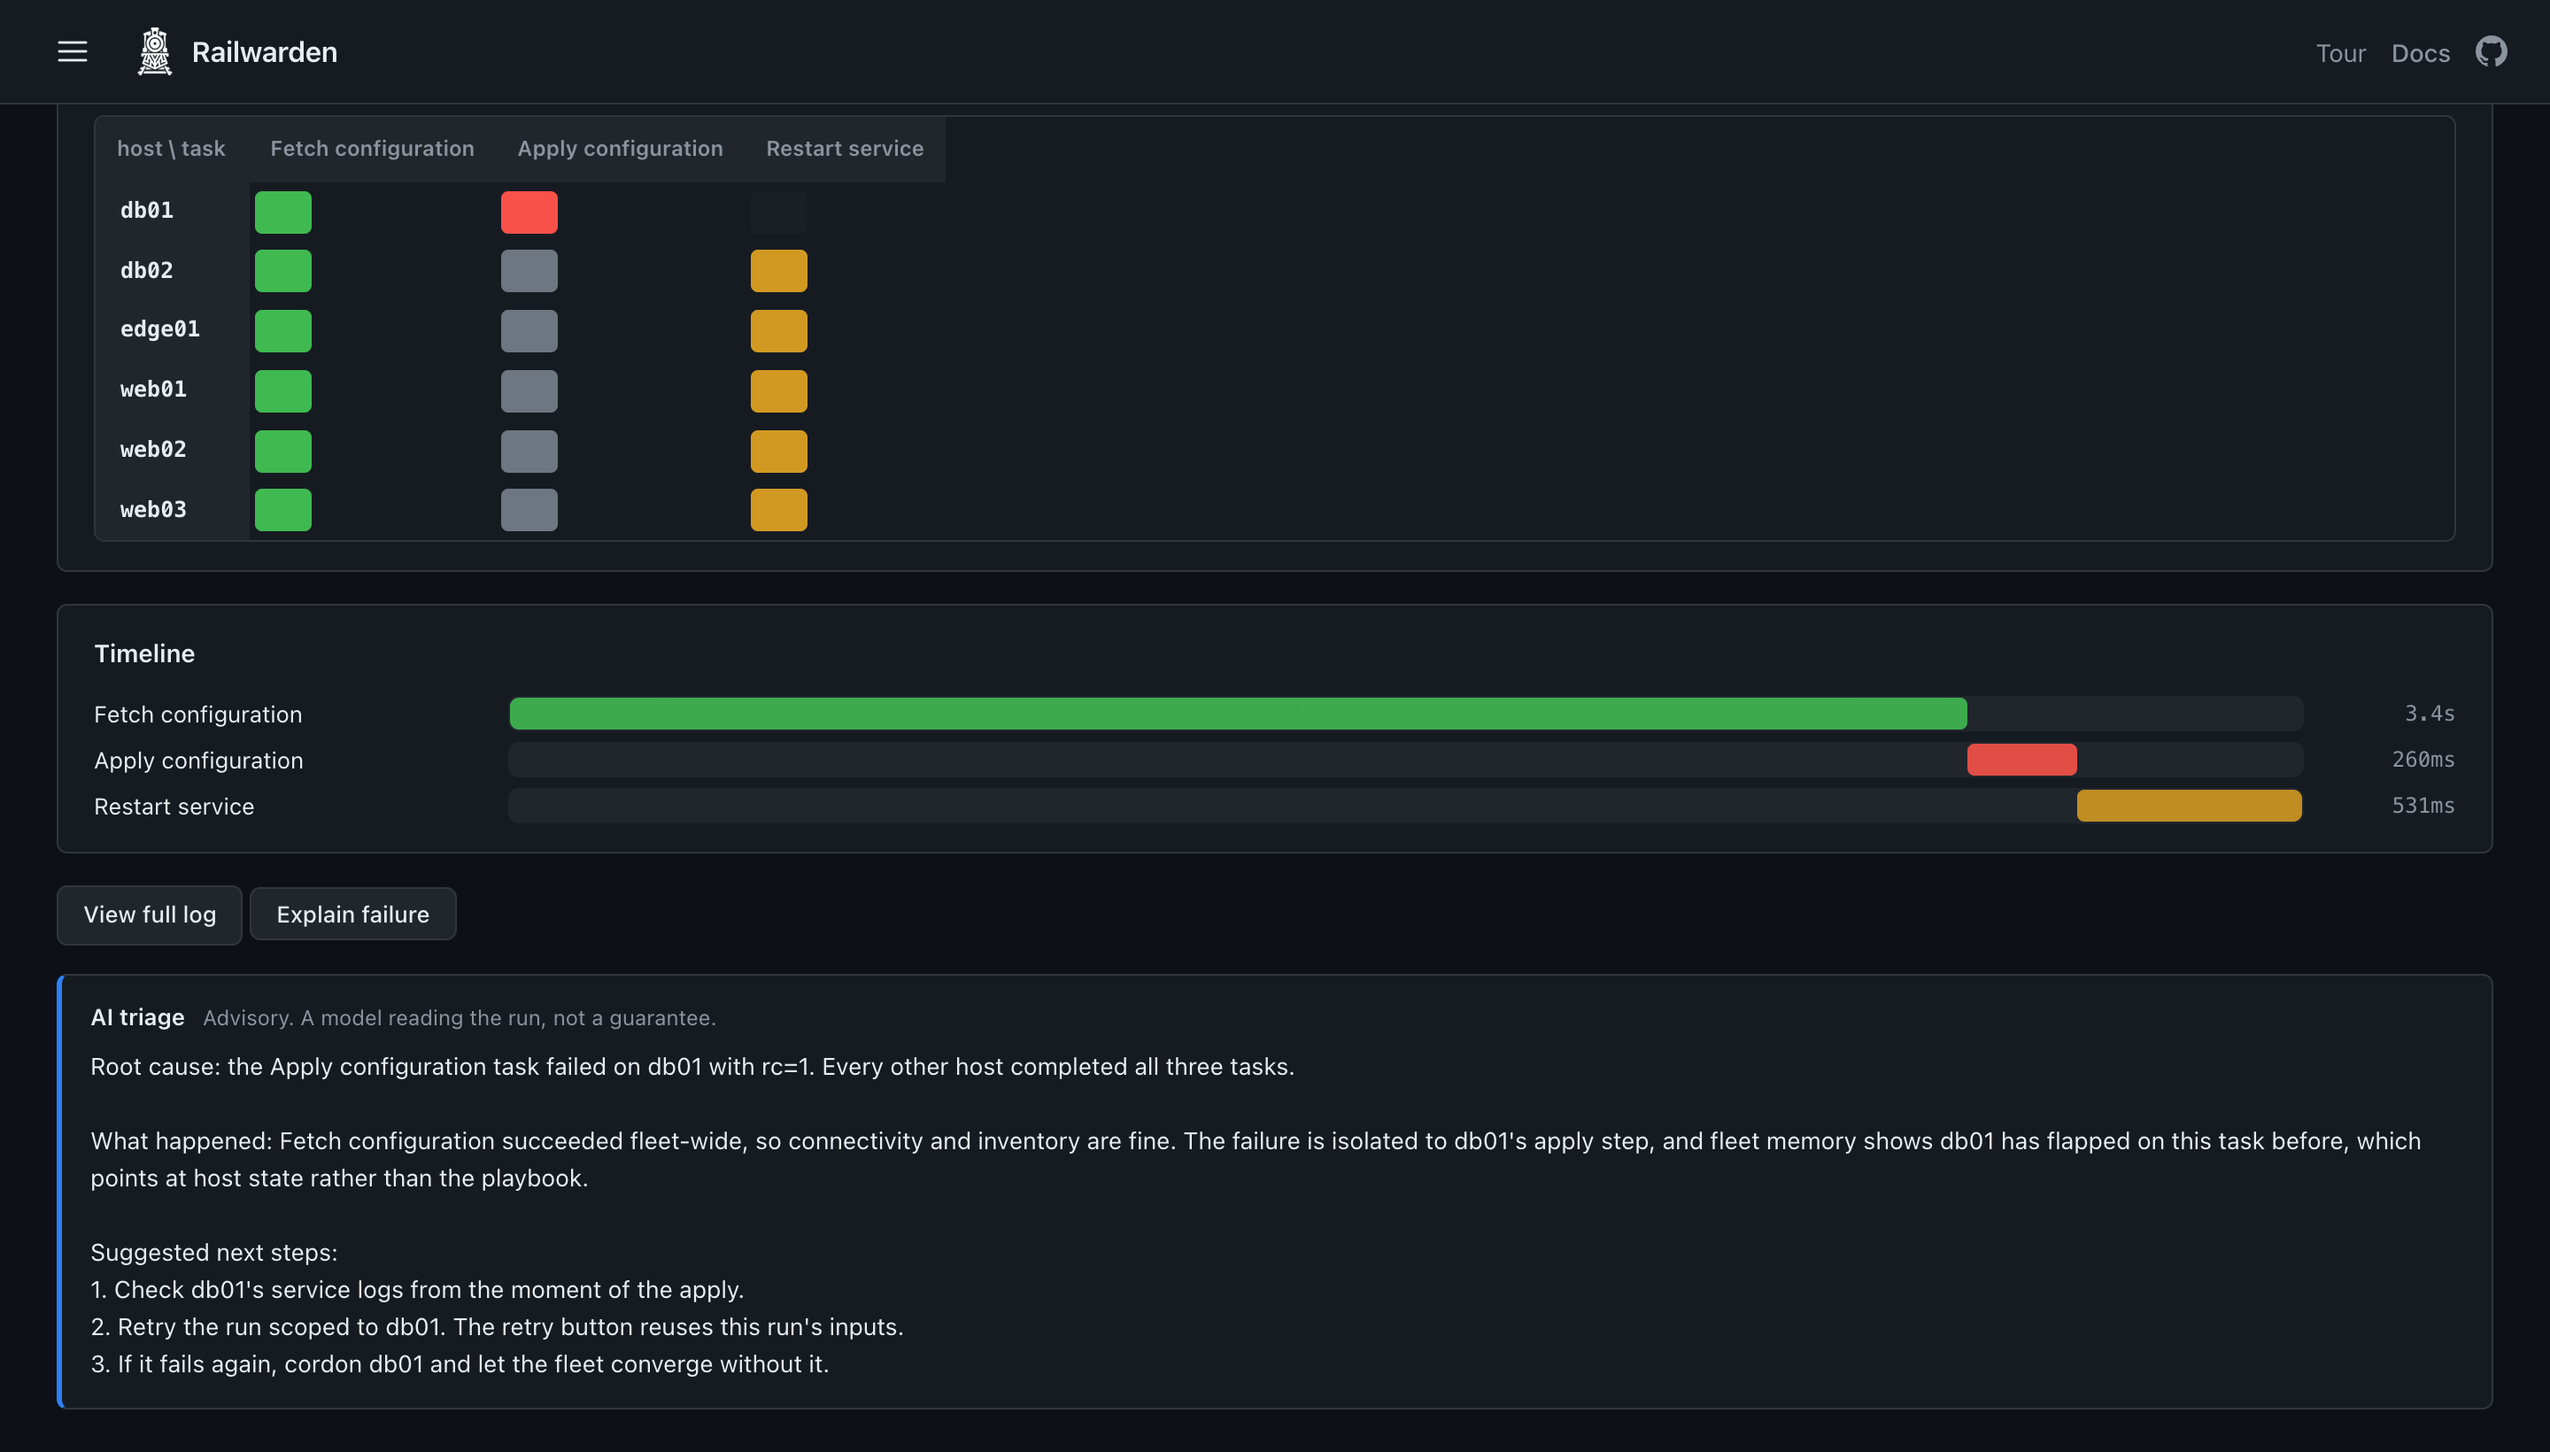
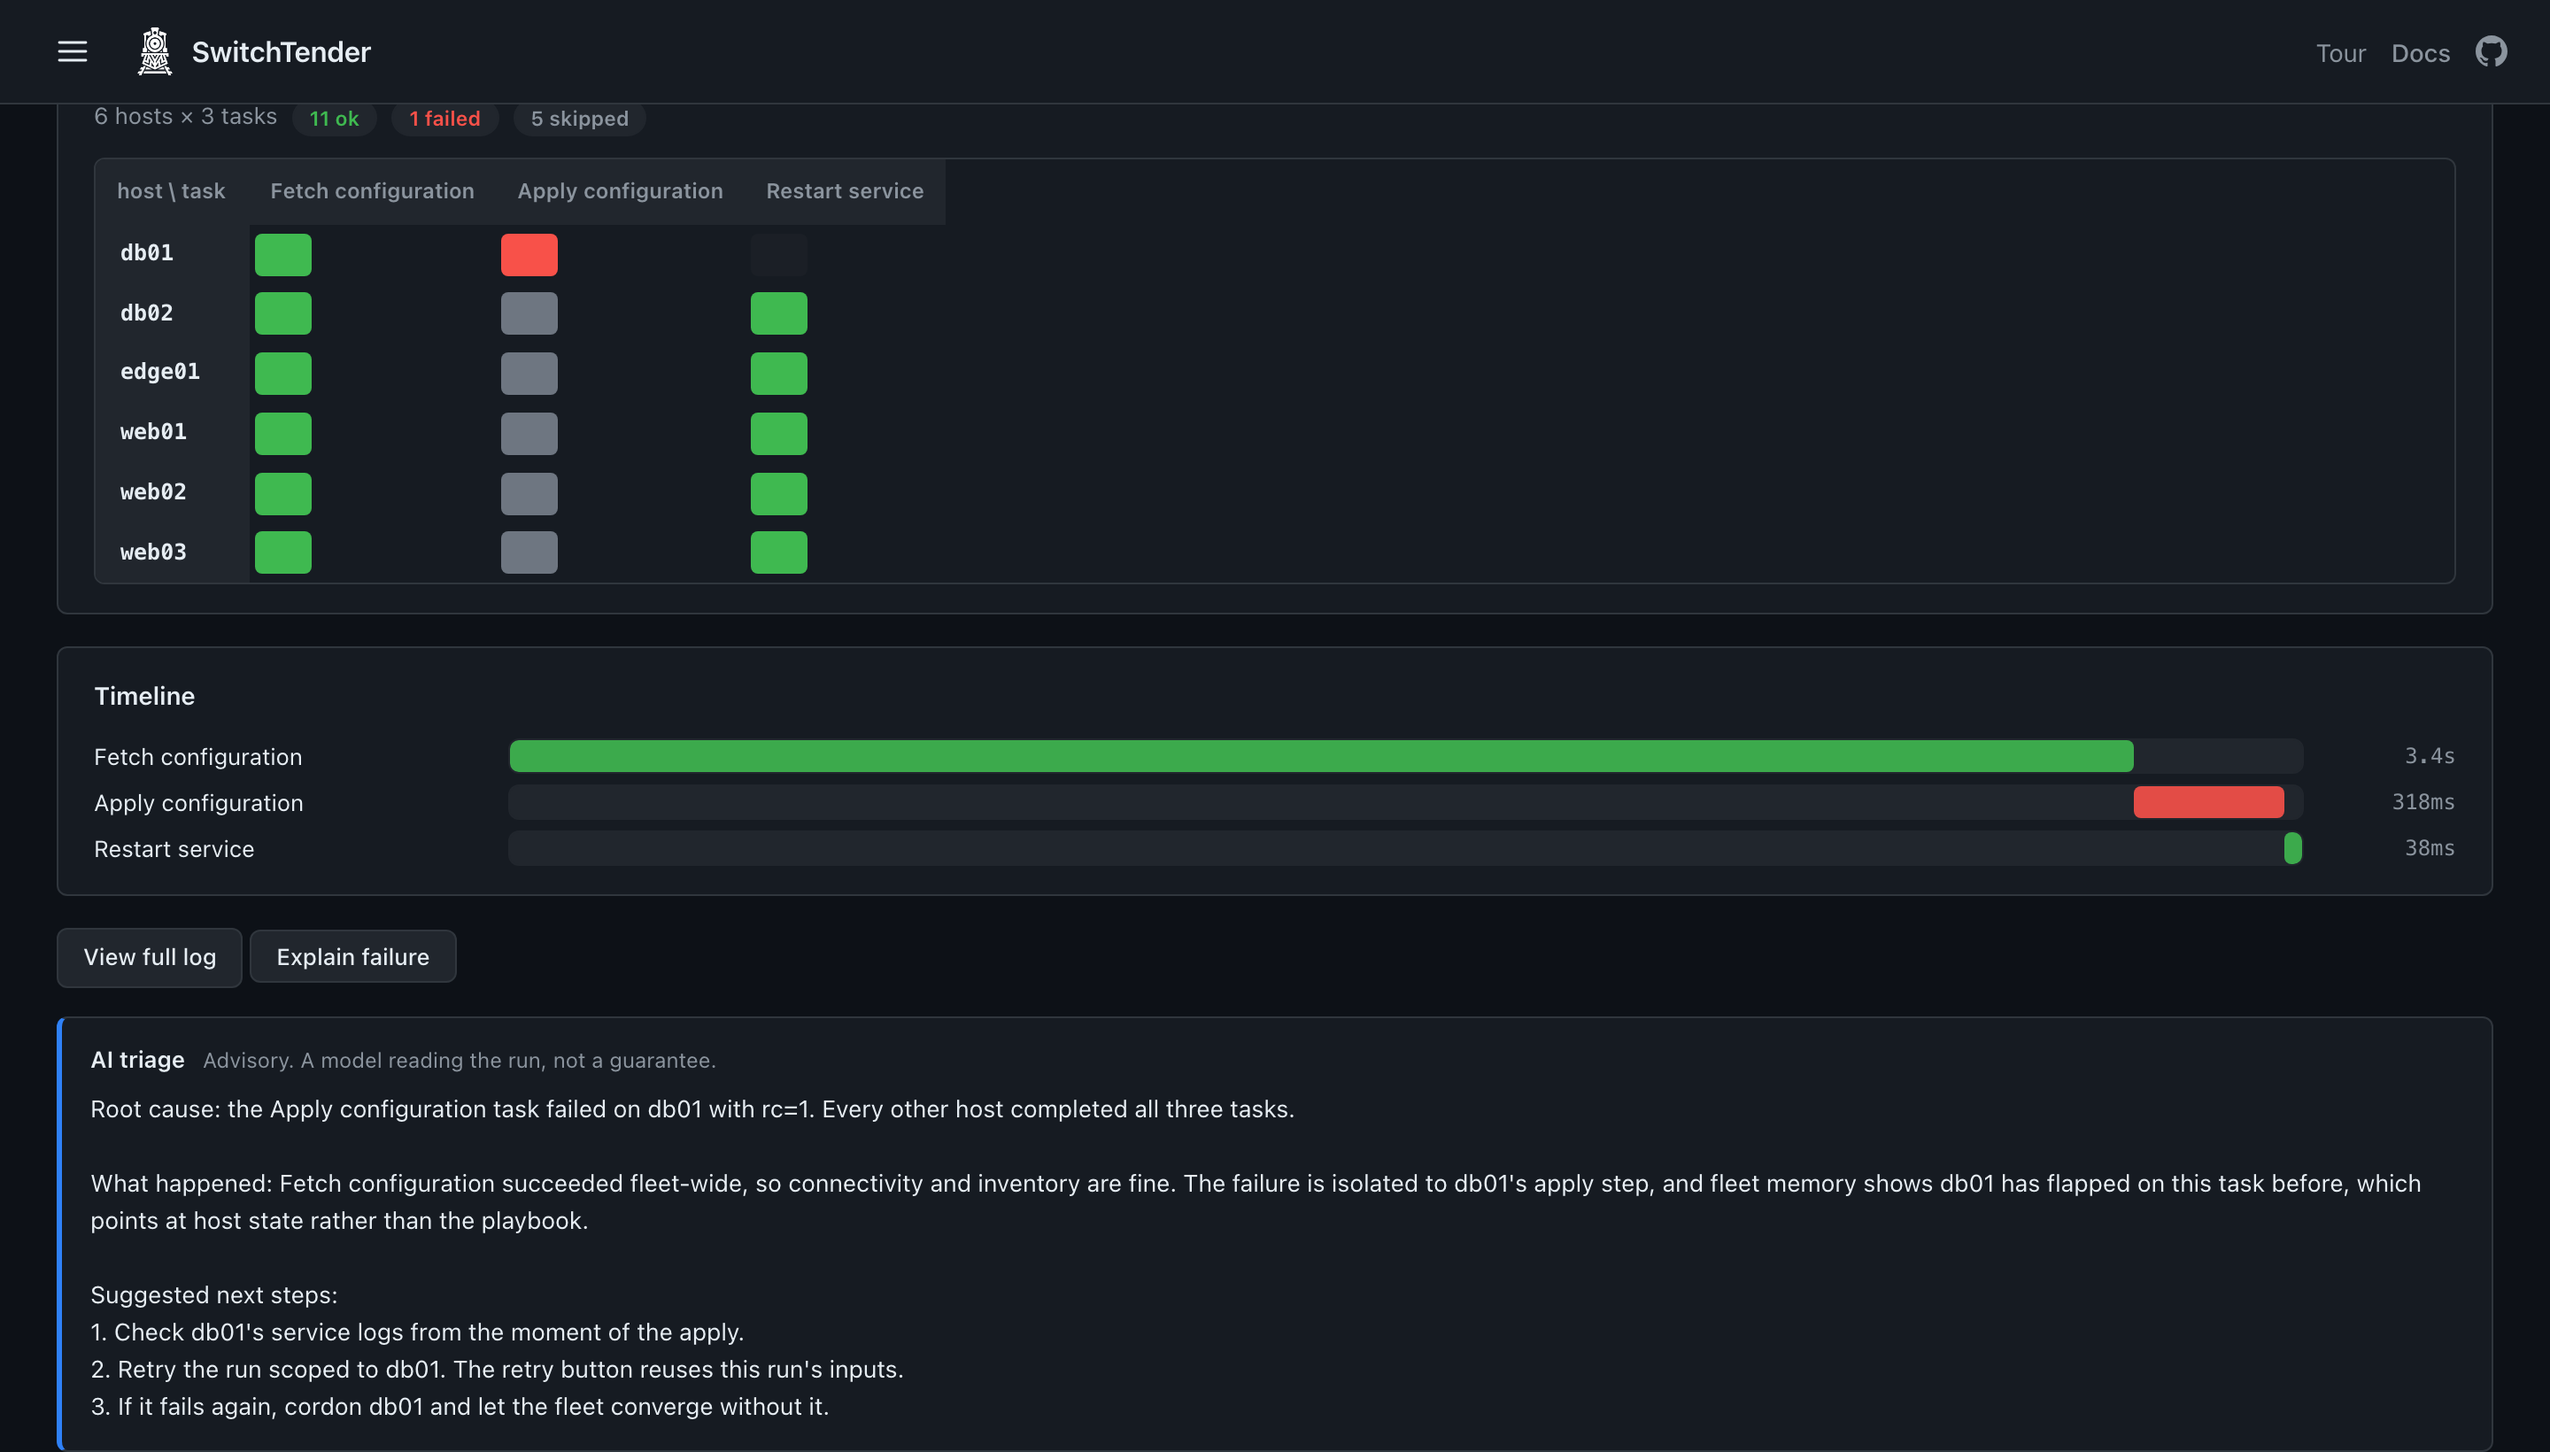
Recapture ask and triage screenshots

diff --git a/site/index.html b/site/index.html
@@ -218,11 +218,11 @@
 			<div class="duo">
 				<figure class="window reveal">
 					<div class="window-bar"><span></span><span></span><span></span><em>switchtender · AI triage</em></div>
-					<img src="/assets/screenshot-triage.png?v=6" alt="A failed run with the AI triage panel isolating db01's apply step as the root cause and suggesting next steps" loading="lazy">
+					<img src="/assets/screenshot-triage.png?v=7" alt="A failed run with the AI triage panel isolating db01's apply step as the root cause and suggesting next steps" loading="lazy">
 				</figure>
 				<figure class="window reveal">
 					<div class="window-bar"><span></span><span></span><span></span><em>switchtender · ask your fleet</em></div>
-					<img src="/assets/screenshot-ask.png?v=6" alt="The overview page answering a plain-language question about which hosts are failing and where to start" loading="lazy">
+					<img src="/assets/screenshot-ask.png?v=7" alt="The overview page answering a plain-language question about which hosts are failing and where to start" loading="lazy">
 				</figure>
 			</div>
 		</section>
